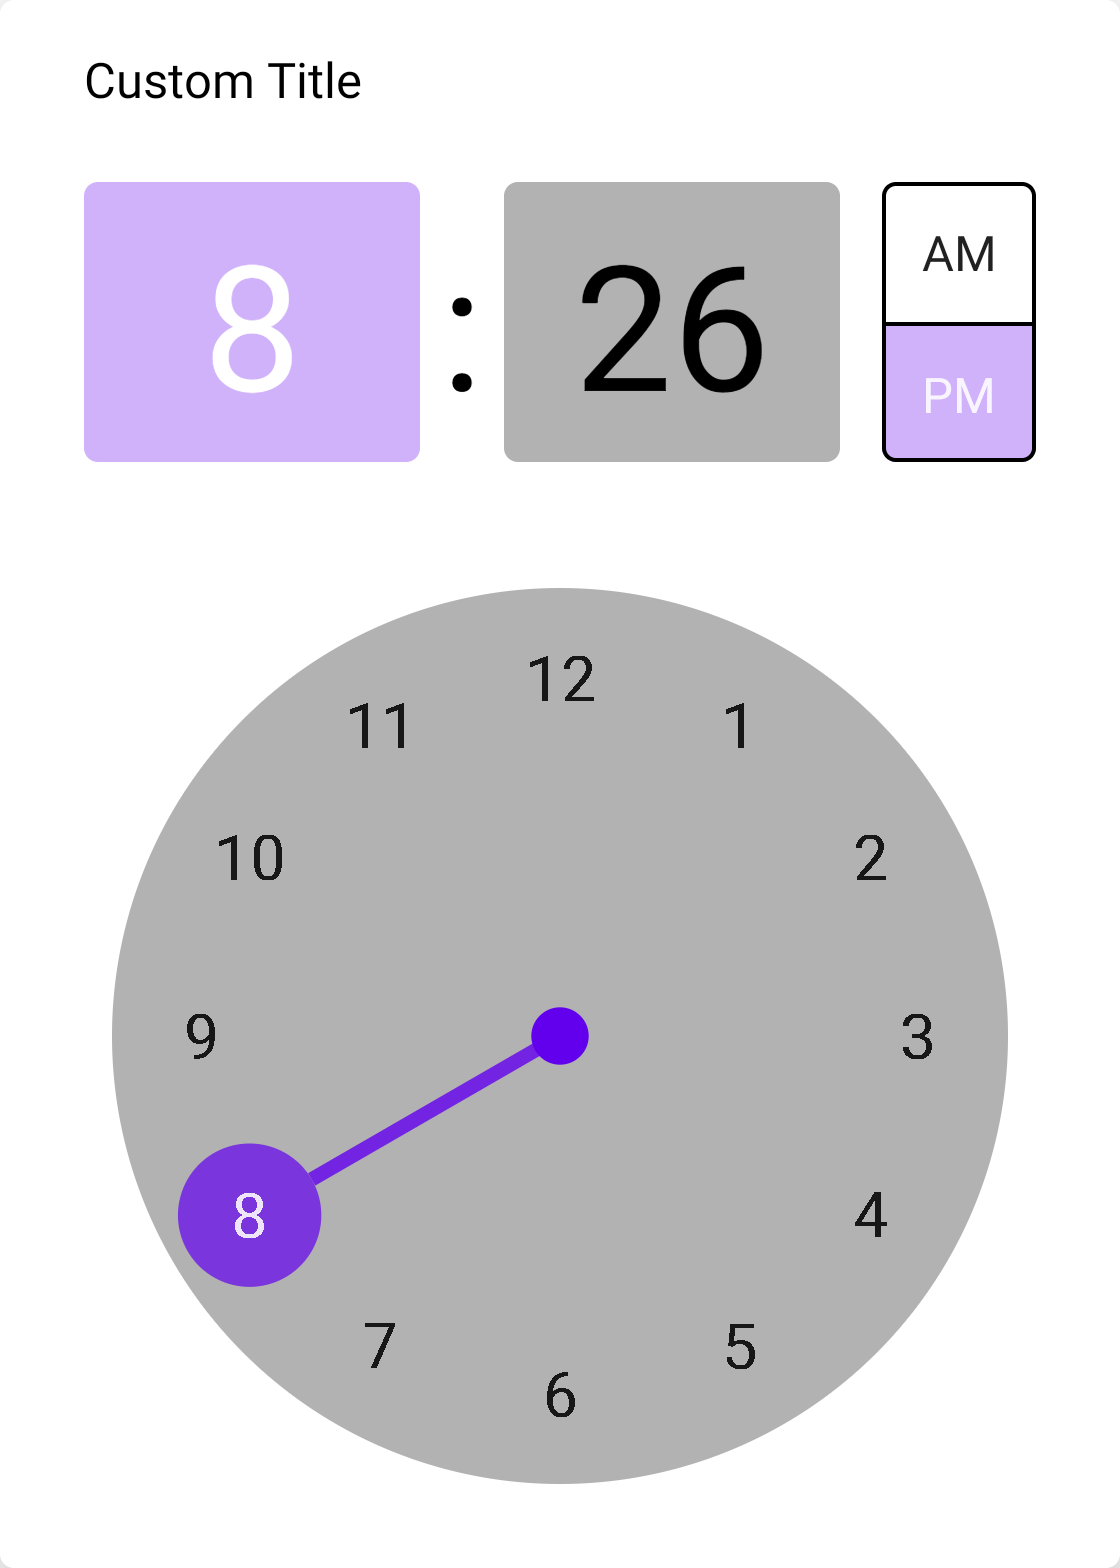
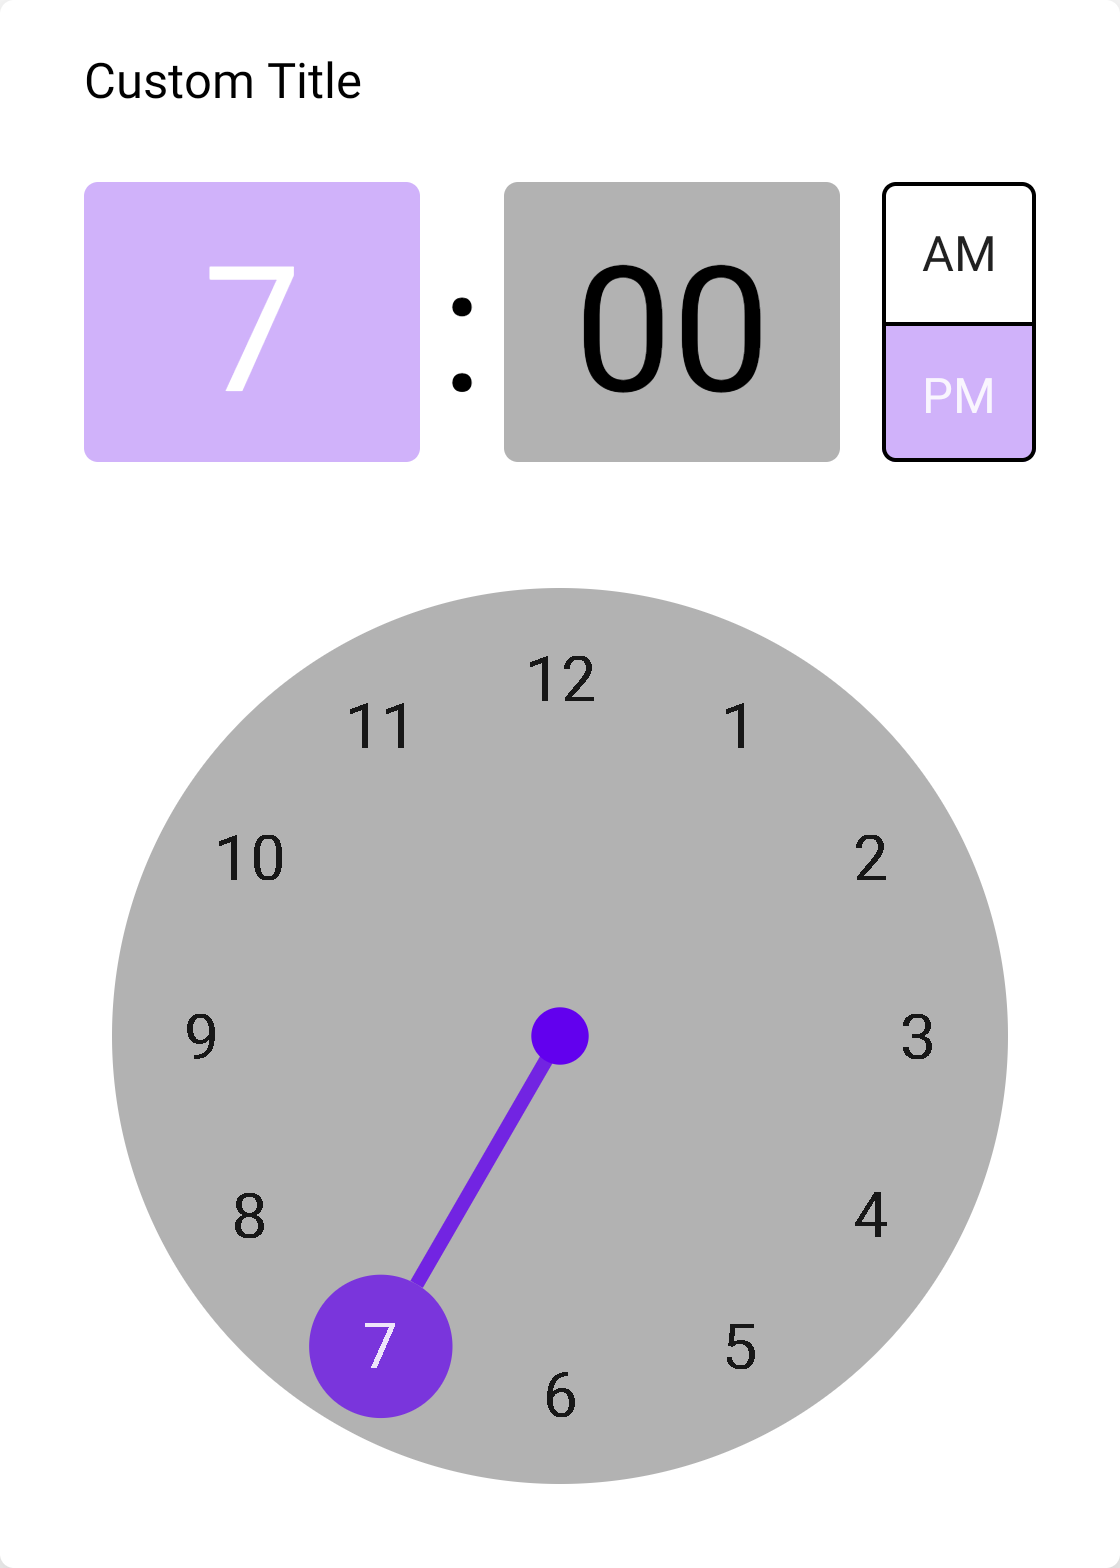
Add fixed time for timePickerWithCustomTitle test

diff --git a/datetime/src/androidTest/java/com/vanpra/composematerialdialogs/datetime/test/screenshot/DateTimePickerTest.kt b/datetime/src/androidTest/java/com/vanpra/composematerialdialogs/datetime/test/screenshot/DateTimePickerTest.kt
@@ -66,7 +66,7 @@ class DateTimePickerTest : ScreenshotTest {
     fun timePickerWithCustomTitle() {
         composeTestRule.setContentAndWaitForIdle {
             DialogWithContent {
-                timepicker(title = testTitle)
+                timepicker(title = testTitle, initialTime = LocalTime.of(19, 0))
             }
         }
 
